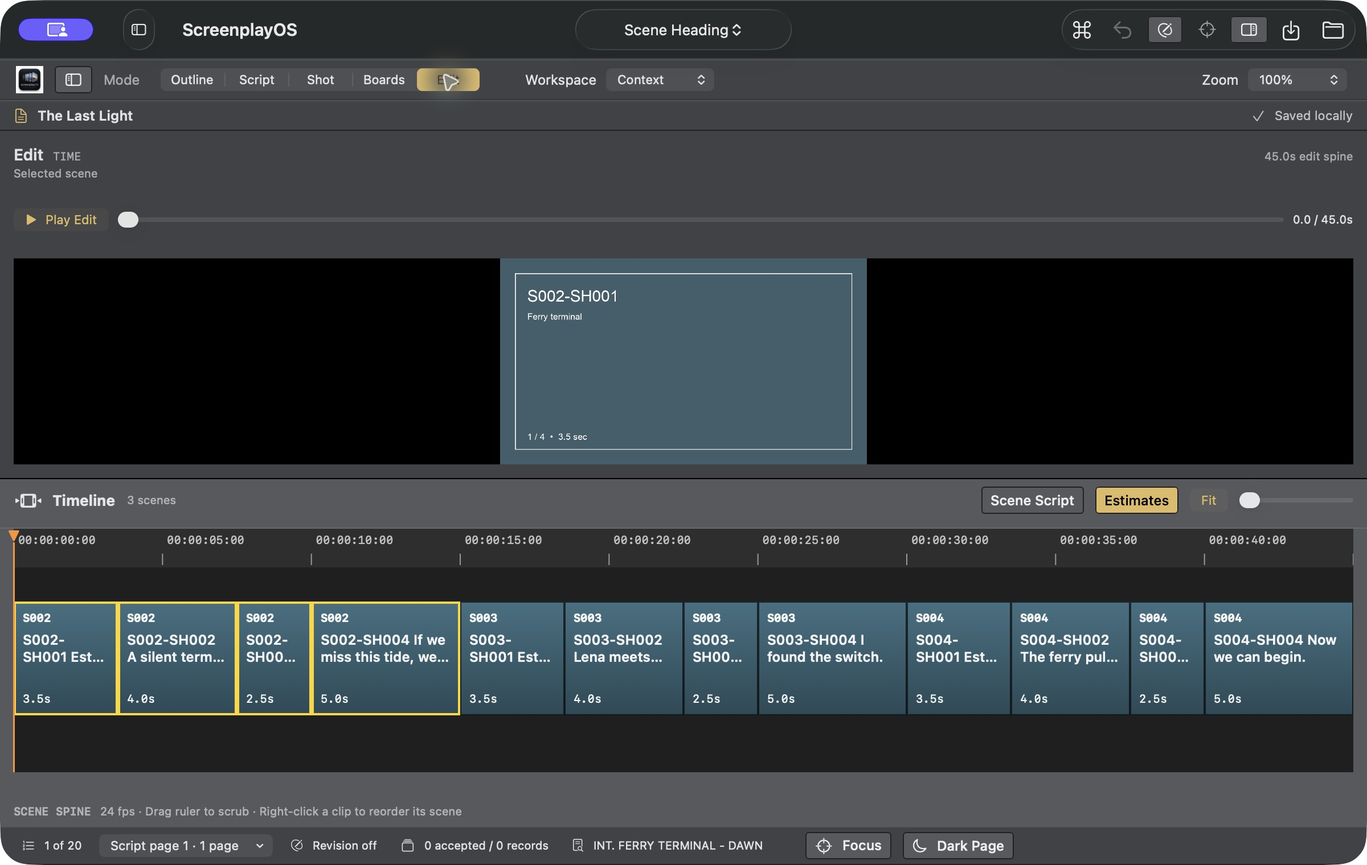
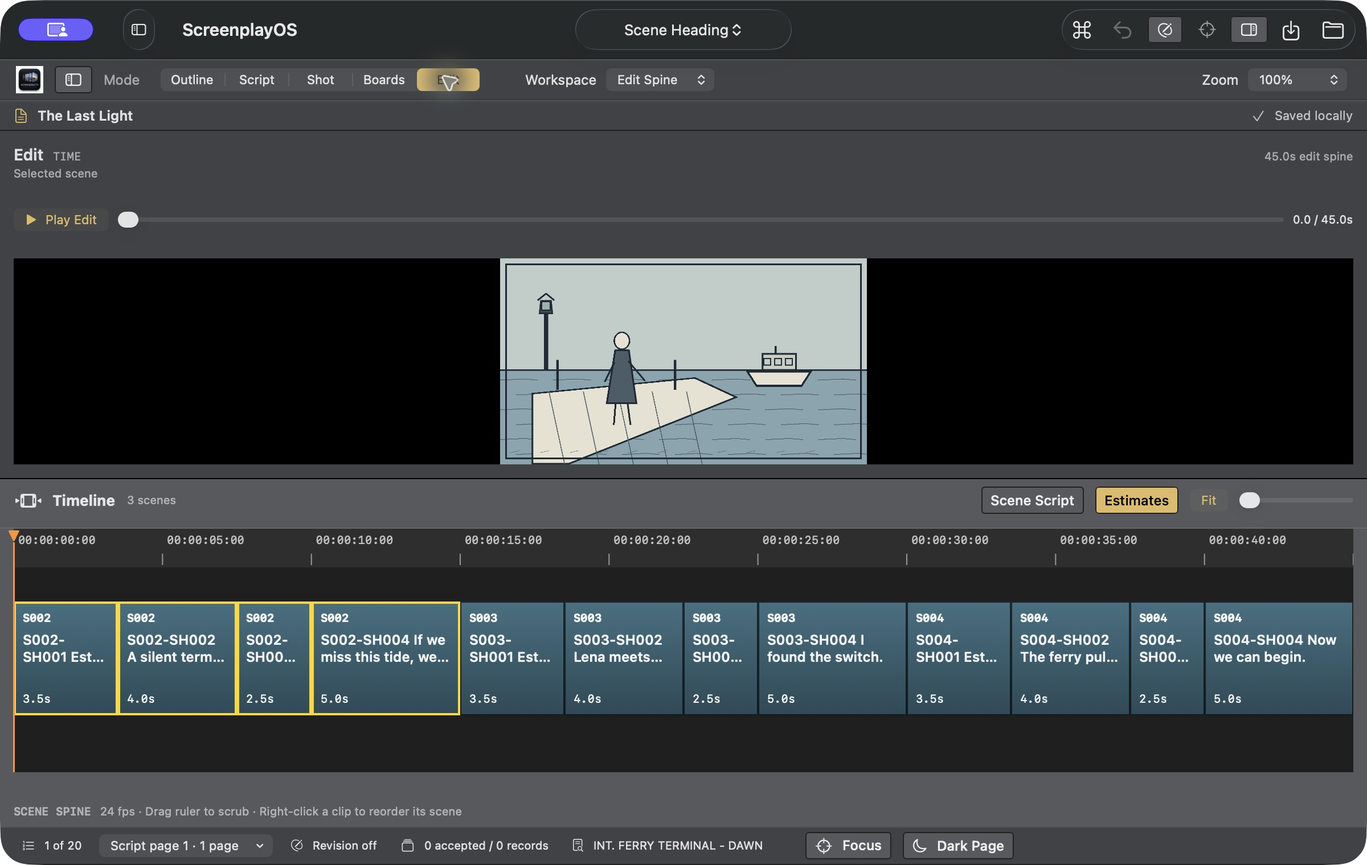
Revise beta website with original illustrated edit demo

Changed region(s): [[0.3438, 0.2783, 0.6562, 0.5566], [0.4688, 0.0618, 0.5, 0.0928]]

diff --git a/Website/index.html b/Website/index.html
@@ -6,22 +6,23 @@
   <meta name="theme-color" content="#f5f6f5">
   <meta name="description" content="A native Mac workspace that takes a story from outline to script, shots, boards, and a timed animatic, with the edit in mind at every stage.">
   <title>ScreenplayOS — Every stage planned for the cut</title>
-  <link rel="icon" type="image/png" href="assets/ScreenplayOSLogo.png">
+  <link rel="icon" type="image/png" sizes="32x32" href="assets/brand/favicon-32.png">
+  <link rel="apple-touch-icon" sizes="180x180" href="assets/brand/apple-touch-icon.png">
   <link rel="stylesheet" href="style.css">
   <script src="site.js" defer></script>
 </head>
 <body>
   <a class="skip" href="#main">Skip to content</a>
   <header class="site-header wrap" id="top">
-    <a class="brand" href="#top" aria-label="ScreenplayOS home"><img src="assets/ScreenplayOSLogo.png" alt="" width="44" height="44"><span>ScreenplayOS</span></a>
+    <a class="brand" href="#top" aria-label="ScreenplayOS home"><img src="assets/brand/header-88.png" alt="" width="44" height="44"><span>ScreenplayOS</span></a>
     <nav aria-label="Main navigation"><a href="#workflow">Product</a><a href="#early-access">Early access</a><a href="#install">Install</a><a href="#privacy">Privacy</a></nav>
   </header>
   <main id="main">
     <section class="hero wrap" aria-labelledby="hero-title">
       <div class="hero-copy">
         <p class="eyebrow">NATIVE FILMMAKING WORKSPACE FOR MAC · EARLY ACCESS BETA</p>
-        <h1 id="hero-title"><span class="hero-name">ScreenplayOS<sup>™</sup></span><br>From first beat<br>to first cut.</h1>
-        <p class="lead">ScreenplayOS keeps the edit in mind from the very first beat. Outline, write, break down shots, board, and play a timed animatic in one connected project, then export timing guides for the tools your team already uses.</p>
+        <h1 id="hero-title">From first beat<br>to first cut.</h1>
+        <p class="lead">Outline, write, break down shots, board, and play a timed animatic in one project—with optional AI dialogue suggestions and board image generation using your own provider key, only when you ask and after you preview what will be sent.</p>
         <form class="signup-form hero-signup" action="https://signup.screenplayos.com/subscribe" method="post" aria-label="Get the ScreenplayOS download by email">
           <label for="hero-email">Email address</label>
           <div class="signup-row"><input id="hero-email" name="email" type="email" autocomplete="email" inputmode="email" placeholder="you@example.com" required maxlength="254"><button class="button" type="submit">Get the beta for Mac <span aria-hidden="true">↗</span></button></div>
@@ -29,9 +30,9 @@
           <p class="fine-print">Confirm your email to open the download and receive occasional ScreenplayOS updates. Unsubscribe anytime.</p><p class="beta-caution">Early access beta. Back up important work before you start.</p>
           <p class="form-status" role="status" aria-live="polite"></p>
         </form>
-        <p class="small-line">Free to write. Works offline. No account required.</p>
+        <p class="small-line">Works offline. No account required.</p>
       </div>
-      <div class="hero-art"><picture><source srcset="assets/screenshots/outline-script.webp" type="image/webp"><img src="assets/screenshots/outline-script.png" alt="ScreenplayOS Outline view showing an original three-scene demo, estimated scene time, and its linked screenplay preview" width="2400" height="1520" fetchpriority="high"></picture></div>
+      <div class="hero-art"><picture><source srcset="assets/screenshots/edit.webp" type="image/webp"><img src="assets/screenshots/edit.png" alt="ScreenplayOS Edit view showing an original illustrated board above a 45-second timeline of twelve timed shots across three scenes" width="2400" height="1520" fetchpriority="high"></picture></div>
     </section>
     <section class="problem wrap" aria-labelledby="problem-title"><p class="eyebrow">THE GAP</p><h2 id="problem-title">Most tools stop at the script.</h2><p>Writing apps end at a PDF. Boards live in another app, timing lives in a spreadsheet, and the editor starts from scratch. When AI can generate a shot in minutes, the bottleneck isn't making images. It's keeping story, timing, and intent connected all the way to the cut.</p></section>
     <!-- Walkthrough is hidden until the video is ready.
@@ -39,15 +40,15 @@
     -->
     <section class="workflow wrap" id="workflow" aria-labelledby="workflow-title"><p class="eyebrow">ONE PROJECT · FIVE VIEWS</p><h2 id="workflow-title">One project. Every stage connected.</h2><div class="pipeline" aria-label="Outline to Edit workflow"><div><span>01</span><strong>Outline</strong><p>Shape the story in beats and see estimated runtime as you plan.</p></div><div><span>02</span><strong>Script</strong><p>Write in screenplay format; review each scene’s estimated screen time in Outline.</p></div><div><span>03</span><strong>Shot</strong><p>Break scenes into shots linked to their source script elements.</p></div><div><span>04</span><strong>Boards</strong><p>Build board frames from linked shots and set their durations.</p></div><div><span>05</span><strong>Edit</strong><p>Play timed boards. Export a timed sequence that opens in Premiere Pro or Final Cut Pro, ready for real footage and sound.</p></div></div><p class="pipeline-note">Scene identity carries through every view. The export contains timing placeholders, not media.</p>
       <div class="view-gallery" aria-label="ScreenplayOS beta screenshots">
-        <figure><picture><source srcset="assets/screenshots/boards.webp" type="image/webp"><img src="assets/screenshots/boards.png" alt="Boards view linking locally made placeholder images to shots, each with an authored duration" width="2400" height="1520" loading="lazy"></picture><figcaption><strong>Boards</strong><span>Shots become a timed visual sequence.</span></figcaption></figure>
-        <figure><picture><source srcset="assets/screenshots/edit.webp" type="image/webp"><img src="assets/screenshots/edit.png" alt="Edit view showing a 45-second timeline of twelve timed shots across three scenes" width="2400" height="1520" loading="lazy"></picture><figcaption><strong>Edit</strong><span>Review the rhythm before the footage arrives.</span></figcaption></figure>
+        <figure><picture><source srcset="assets/screenshots/outline-script.webp" type="image/webp"><img src="assets/screenshots/outline-script.png" alt="ScreenplayOS Outline view showing an original three-scene demo, estimated scene time, and its linked screenplay preview" width="2400" height="1520" loading="lazy"></picture><figcaption><strong>Outline and Script</strong><span>Plan scenes beside the screenplay.</span></figcaption></figure>
+        <figure><picture><source srcset="assets/screenshots/boards.webp" type="image/webp"><img src="assets/screenshots/boards.png" alt="Boards view showing original illustrated frames linked to shots with authored durations" width="2400" height="1520" loading="lazy"></picture><figcaption><strong>Boards</strong><span>Use original drawn frames, or ask OpenAI to generate a board image with your Keychain-stored key after reviewing the editable prompt.</span></figcaption></figure>
       </div>
     </section>
     <section class="difference wrap" aria-labelledby="difference-title"><p class="eyebrow">WHY IT'S DIFFERENT</p><h2 id="difference-title">Plan with the cut in mind.</h2><div class="cards"><article><span class="number">01</span><h3>Planned for the cut</h3><p>Scene time estimates and authored board durations help you judge rhythm before you shoot or generate a frame.</p></article><article><span class="number">02</span><h3>Hands off, doesn't lock in</h3><p>ScreenplayOS prepares timing guides for other tools. The current exports contain placeholders, so footage and sound remain in your editor.</p></article><article><span class="number">03</span><h3>Your work stays yours</h3><p>Projects live on your Mac. Writing, outlining, and supported exports need no account or internet. AI is optional, invoked by you, with your provider key in the macOS Keychain. When you use AI, you choose the service and see exactly what is sent before anything leaves your Mac.</p></article></div></section>
     <section class="for-whom"><div class="wrap narrow"><p class="eyebrow">WHO IT'S FOR</p><h2>Built for the new production team.</h2><p>For writers, directors, and producers making film, series, and animation, especially small teams working with AI-assisted pipelines, where one person may write the scene, plan the coverage, and cut the sequence.</p></div></section>
-    <section class="coming wrap" aria-labelledby="coming-title"><p class="eyebrow">COMING NEXT</p><h2 id="coming-title">What we're building next</h2><ul><li>Continuity bible: characters, locations and style carried into every generation, so faces and places hold across shots</li><li>Generation into shots: images, video and temp voice made with the AI services you choose, landing directly in each shot's timeline slot</li><li>Consent built in: likeness and voice generation for real performers requires a recorded consent</li><li>Temp voice, music, and effects lanes in the animatic</li><li>Takes for generated or filmed clips within each shot</li><li>Handoff to DaVinci Resolve, Premiere Pro, and Final Cut Pro, with edits returning as reviewable changes</li></ul><p>Early access members help decide what ships first.</p></section>
-    <section class="early-access" id="early-access" aria-labelledby="early-title"><div class="wrap signup-grid"><div><p class="eyebrow">EARLY ACCESS</p><h2 id="early-title">Get ScreenplayOS by email.</h2><p>Enter your email and confirm it to open the current Mac download. You'll also receive occasional product notes and, when available, founding-member pricing.</p><p class="muted">Running a production and want to use it on real work? Write to <a href="mailto:hello@screenplayos.com">hello@screenplayos.com</a> about becoming a design partner.</p></div><form class="signup-form signup-panel" action="https://signup.screenplayos.com/subscribe" method="post" aria-label="Get ScreenplayOS by email"><label for="email">Email address <span aria-hidden="true">*</span></label><input id="email" name="email" type="email" autocomplete="email" inputmode="email" placeholder="you@example.com" required maxlength="254"><input class="honeypot" name="website" type="text" tabindex="-1" autocomplete="off" aria-hidden="true"><button class="button" type="submit">Get the beta for Mac <span aria-hidden="true">↗</span></button><p class="fine-print">Confirm your email to open the download and receive occasional ScreenplayOS updates. No marketing tracking. Unsubscribe anytime.</p><p class="beta-caution">Early access beta. Back up important work before you start.</p><p class="form-status" role="status" aria-live="polite"></p></form></div></section>
-    <section class="install" id="install"><div class="wrap install-grid"><div><p class="eyebrow">GET STARTED</p><h2>Install in a minute.</h2><p class="muted">Confirm your email address to open the current signed and Apple-notarized Mac build.</p><p class="release-line" id="release-details" data-site-release="details">Version 0.1.4 (27) · October 2026 · Universal (Apple Silicon and Intel) · macOS 13 or later</p><div class="checksum-block"><p>Verify the downloaded DMG with <code>shasum -a 256 ScreenplayOS-0.1.4.dmg</code>.</p><div class="checksum-row"><code id="dmg-checksum" data-site-release="checksum">9eaf5b2b40f1df15918963287dc773513411afc8187e63f4d3bc4006c03f2e41</code><button type="button" id="copy-checksum" aria-label="Copy DMG SHA-256 checksum">Copy checksum</button></div><p id="checksum-status" role="status" aria-live="polite"></p></div></div><ol><li>Open the confirmation email. Its confirmation button starts the <strong>ScreenplayOS DMG</strong> download.</li><li>Drag <strong>ScreenplayOS.app</strong> to <strong>Applications</strong>.</li><li>Eject the disk image, then open ScreenplayOS from Applications.</li></ol></div></section>
+    <section class="coming wrap" aria-labelledby="coming-title"><p class="eyebrow">COMING NEXT</p><h2 id="coming-title">What we're building next</h2><ul><li>Continuity bible: characters, locations and style carried into every generation, so faces and places hold across shots</li><li>Generation into shots: images, video and temp voice made with the AI services you choose, landing directly in each shot's timeline slot</li><li>Consent built in: likeness and voice generation for real performers requires a recorded consent</li><li>Temp voice, music, and effects lanes in the animatic</li><li>Takes for generated or filmed clips within each shot</li><li>Handoff to DaVinci Resolve, Premiere Pro, and Final Cut Pro with media and audio, and edits returning as reviewable changes</li></ul><p>Early access members help decide what ships first.</p></section>
+    <section class="early-access" id="early-access" aria-labelledby="early-title"><div class="wrap signup-grid"><div><p class="eyebrow">EARLY ACCESS</p><h2 id="early-title">Try the beta on your next sequence.</h2><p>Enter your email and confirm it to open the current Mac download. You'll also receive occasional product notes and, when available, founding-member pricing.</p><p class="muted">Running a production and want to use it on real work? Write to <a href="mailto:hello@screenplayos.com">hello@screenplayos.com</a> about becoming a design partner.</p></div><form class="signup-form signup-panel" action="https://signup.screenplayos.com/subscribe" method="post" aria-label="Get ScreenplayOS by email"><label for="email">Email address <span aria-hidden="true">*</span></label><input id="email" name="email" type="email" autocomplete="email" inputmode="email" placeholder="you@example.com" required maxlength="254"><input class="honeypot" name="website" type="text" tabindex="-1" autocomplete="off" aria-hidden="true"><button class="button" type="submit">Get the beta for Mac <span aria-hidden="true">↗</span></button><p class="fine-print">Confirm your email to open the download and receive occasional ScreenplayOS updates. No marketing tracking. Unsubscribe anytime.</p><p class="beta-caution">Early access beta. Back up important work before you start.</p><p class="form-status" role="status" aria-live="polite"></p></form></div></section>
+    <section class="install" id="install"><div class="wrap install-grid"><div><p class="eyebrow">GET STARTED</p><h2>Install in a minute.</h2><p class="muted">Confirm your email address to open the current signed and Apple-notarized Mac build.</p><p class="release-line" id="release-details" data-site-release="details">Version 0.1.4 (27) · October 2026 · Universal (Apple Silicon and Intel) · macOS 13 or later</p></div><div><ol><li>Open the confirmation email. Its confirmation button starts the <strong>ScreenplayOS DMG</strong> download.</li><li>Drag <strong>ScreenplayOS.app</strong> to <strong>Applications</strong>.</li><li>Eject the disk image, then open ScreenplayOS from Applications.</li></ol><details class="checksum-block"><summary>Verify the download</summary><p>Run <code>shasum -a 256 ScreenplayOS-0.1.4.dmg</code> and compare the result:</p><div class="checksum-row"><code id="dmg-checksum" data-site-release="checksum">9eaf5b2b40f1df15918963287dc773513411afc8187e63f4d3bc4006c03f2e41</code><button type="button" id="copy-checksum" aria-label="Copy DMG SHA-256 checksum">Copy checksum</button></div><p id="checksum-status" role="status" aria-live="polite"></p></details></div></div></section>
     <section class="lower wrap"><div><p class="eyebrow">COMPATIBILITY</p><h2>Built for Mac.</h2><p>Universal for Apple Silicon and Intel Macs, requiring macOS 13 or later.</p><p>Screenplay export includes PDF and Final Draft (.fdx).</p></div><div id="privacy"><p class="eyebrow">PRIVACY</p><h2>Your drafts stay yours.</h2><p>Your screenplays are stored on your Mac. Content reaches an AI provider only when you choose an AI feature and is processed under that provider's terms. Provider keys stay in the macOS Keychain.</p><p>This site uses no analytics or third-party trackers. If you join the email list, we send your email address and IP address to Buttondown to deliver the confirmation, prevent spam, and send occasional ScreenplayOS updates. Open and click tracking are off; Buttondown may process operational data under its privacy policy. You can unsubscribe at any time. Hosting providers may retain standard server logs.</p></div></section>
   </main>
   <footer class="footer"><div class="wrap footer-inner"><span>© <span id="year">2026</span> ScreenplayOS<sup>™</sup></span><div><a href="#workflow">Product</a><a href="#early-access">Early access</a><a href="#privacy">Privacy</a><a href="mailto:hello@screenplayos.com">Contact</a></div></div></footer>

diff --git a/Website/style.css b/Website/style.css
@@ -4,6 +4,6 @@ button,input,select{font:inherit}button{cursor:pointer}button:focus-visible,inpu
 @media(max-width:950px){.pipeline{grid-template-columns:repeat(2,minmax(0,1fr))}.pipeline div{border-bottom:1px solid var(--line)}.pipeline div+div{border-left:0;padding-left:0}.pipeline div:nth-child(even){border-left:1px solid var(--line);padding-left:19px}.cards,.coming ul{grid-template-columns:1fr}.walkthrough-grid,.signup-grid{gap:35px}}
 @media(max-width:760px){.site-header nav{width:100%;justify-content:space-between;gap:10px}.site-header nav a{font-size:12px}.hero{flex-direction:column-reverse}.hero-art{max-width:180px}.signup-row{flex-direction:column}.signup-row .button{justify-content:center}.walkthrough-grid,.signup-grid{grid-template-columns:1fr}.pipeline{grid-template-columns:1fr}.pipeline div,.pipeline div+div,.pipeline div:nth-child(even){border-left:0;padding:20px 0;border-bottom:1px solid var(--line)}.pipeline div:last-child{border-bottom:0}.problem,.workflow,.coming,.early-access{padding-block:60px}.walkthrough,.for-whom{padding-block:60px}.difference{padding-bottom:60px}.cards{gap:12px}.cards article{padding:20px}.video-placeholder{min-height:180px}.signup-panel{padding:20px}.coming ul{gap:16px}.coming li{padding-top:12px}}
 /* Beta release details and discreet trademark. */
-.hero-name{display:inline-block;font-size:.29em;font-weight:750;letter-spacing:-.035em;line-height:1.8;vertical-align:top}.hero-name sup,.footer sup{font-size:.5em;line-height:0;vertical-align:super}.beta-caution{font-size:13px;font-weight:650;color:#35414c;margin:10px 0 0}.release-line{display:block;line-height:1.6}.checksum-block{margin-top:16px;font-size:13px;color:var(--muted)}.checksum-block p{margin-bottom:8px}.checksum-block code{font-family:ui-monospace,SFMono-Regular,Menlo,monospace;overflow-wrap:anywhere}.checksum-row{display:flex;align-items:center;gap:12px;flex-wrap:wrap}.checksum-row code{font-size:12px;color:var(--ink)}.checksum-row button{border:1px solid var(--line);background:var(--white);color:var(--deep);padding:7px 10px;font-size:12px;font-weight:700}.checksum-row button:hover{background:#dbe6ed}#checksum-status{min-height:1em;margin-top:6px}
+.footer sup{font-size:.5em;line-height:0;vertical-align:super}.beta-caution{font-size:13px;font-weight:650;color:#35414c;margin:10px 0 0}.release-line{display:block;line-height:1.6}.checksum-block{display:block;margin-top:24px;border-top:1px solid var(--line);padding-top:15px;font-size:13px;color:var(--muted)}.checksum-block summary{cursor:pointer;color:var(--deep);font-weight:700;font-size:14px}.checksum-block summary:focus-visible{outline:3px solid #176ca7;outline-offset:3px}.checksum-block p{margin:12px 0 8px}.checksum-block code{font-family:ui-monospace,SFMono-Regular,Menlo,monospace;overflow-wrap:anywhere}.checksum-row{display:flex;align-items:center;gap:12px;flex-wrap:wrap}.checksum-row code{font-size:12px;color:var(--ink)}.checksum-row button{border:1px solid var(--line);background:var(--white);color:var(--deep);padding:7px 10px;font-size:12px;font-weight:700}.checksum-row button:hover{background:#dbe6ed}#checksum-status{min-height:1em;margin-top:6px}
 /* Captures are from the signed 0.1.4 build using a disposable local screenplay. */
 .hero{grid-template-columns:1fr;gap:34px;min-height:0}.hero-copy{max-width:790px}.hero-art{max-width:none;justify-self:stretch;border:1px solid var(--line);background:var(--deep);box-shadow:0 20px 45px rgba(23,35,48,.1)}.hero-art picture,.view-gallery picture{display:block}.hero-art img,.view-gallery img{display:block;width:100%;height:auto}.view-gallery{display:grid;grid-template-columns:repeat(2,minmax(0,1fr));gap:20px;margin-top:42px}.view-gallery figure{min-width:0;margin:0;border:1px solid var(--line);background:var(--white)}.view-gallery figcaption{display:flex;gap:8px;flex-wrap:wrap;align-items:baseline;padding:14px 18px;color:var(--muted);font-size:14px}.view-gallery figcaption strong{color:var(--ink);font-size:16px}@media(max-width:760px){.hero{display:flex;flex-direction:column;gap:28px}.hero-art{max-width:none}.view-gallery{grid-template-columns:1fr;gap:16px;margin-top:30px}}

diff --git a/Website/tools/draw-demo-boards.py b/Website/tools/draw-demo-boards.py
@@ -1,0 +1,134 @@
+#!/usr/bin/env python3
+"""Draw the original, locally authored frames for The Last Light demo.
+
+Requires Pillow only for regenerating the committed PNGs. No network or AI API.
+"""
+from pathlib import Path
+from PIL import Image, ImageDraw
+import math
+
+OUT = Path(__file__).resolve().parents[1] / "assets" / "demo-boards"
+OUT.mkdir(parents=True, exist_ok=True)
+W, H = 1280, 720
+INK = (29, 42, 53)
+MID = (74, 92, 104)
+PAPER = (231, 226, 209)
+SEA = (132, 165, 174)
+SKY = (192, 204, 200)
+WARM = (216, 170, 92)
+
+
+def line(d, points, width=6, color=INK):
+    d.line(points, fill=color, width=width, joint="curve")
+
+
+def star(d, x, y, r=37):
+    points = []
+    for i in range(10):
+        a = -math.pi / 2 + i * math.pi / 5
+        rr = r if i % 2 == 0 else r * .43
+        points.append((x + rr * math.cos(a), y + rr * math.sin(a)))
+    d.polygon(points, fill=PAPER, outline=INK, width=5)
+    line(d, [(x, y-r), (x, y+r*.37)], 3, MID)
+
+
+def water(d, horizon=390):
+    d.rectangle((0, 0, W, horizon), fill=SKY)
+    d.rectangle((0, horizon, W, H), fill=SEA)
+    line(d, [(0, horizon), (W, horizon)], 5)
+    for yy in range(horizon+35, H, 52):
+        for xx in range((yy//52)%2*55, W, 185):
+            line(d, [(xx, yy), (xx+85, yy-4), (xx+131, yy)], 3, MID)
+
+
+def pier(d, x=110, y=470):
+    d.polygon([(x, y), (x+570, y-55), (x+720, y+15), (x+130, H), (x, H)], fill=PAPER, outline=INK, width=6)
+    for xx in range(x+60, x+600, 120):
+        line(d, [(xx, y-5), (xx+55, H)], 3, MID)
+    for xx in (x+90, x+500):
+        line(d, [(xx, y-12), (xx, y-115)], 9)
+
+
+def lamp(d, x=850, y=155, lit=False, scale=1):
+    s=scale
+    if lit:
+        d.ellipse((x-100*s,y-90*s,x+100*s,y+90*s), fill=(235,210,141))
+    d.polygon([(x-37*s,y+22*s),(x-47*s,y+115*s),(x+47*s,y+115*s),(x+37*s,y+22*s)], fill=(58,76,82), outline=INK, width=5)
+    d.rectangle((x-31*s,y+27*s,x+31*s,y+92*s), fill=(239,205,129) if lit else (151,177,174), outline=INK, width=4)
+    line(d, [(x-55*s,y+22*s),(x,y-23*s),(x+55*s,y+22*s)], 6)
+    line(d, [(x,y+115*s),(x,y+490*s)], 15)
+    if lit:
+        for dx in (-130,-75,75,130): line(d,[(x+dx*s,y-50*s),(x+dx*1.3*s,y-90*s)],3,WARM)
+
+
+def ferry(d, x=670, y=355, scale=1):
+    s=scale
+    d.polygon([(x-250*s,y),(x+265*s,y),(x+185*s,y+125*s),(x-170*s,y+125*s)], fill=PAPER, outline=INK, width=7)
+    d.rectangle((x-125*s,y-135*s,x+145*s,y), fill=(203,206,193), outline=INK, width=6)
+    for xx in (-85,0,85): d.rectangle((x+(xx-30)*s,y-97*s,x+(xx+30)*s,y-38*s), fill=SKY, outline=INK, width=4)
+    line(d,[(x-20*s,y-135*s),(x-20*s,y-190*s)],7)
+
+
+def person(d, x, y, scale=1, facing=1, coat=(75, 92, 104)):
+    s=scale
+    d.ellipse((x-27*s,y-95*s,x+27*s,y-35*s), fill=PAPER, outline=INK, width=5)
+    d.polygon([(x-24*s,y-36*s),(x+25*s,y-36*s),(x+51*s,y+145*s),(x-53*s,y+145*s)],fill=coat,outline=INK,width=6)
+    line(d,[(x-21*s,y+144*s),(x-27*s,y+215*s)],6)
+    line(d,[(x+19*s,y+144*s),(x+28*s,y+215*s)],6)
+    line(d,[(x+21*s,y+2*s),(x+facing*77*s,y+68*s)],6)
+    line(d,[(x-25*s,y+7*s),(x-facing*58*s,y+72*s)],6)
+    line(d,[(x+facing*25*s,y-60*s),(x+facing*28*s,y-60*s)],3)
+
+
+def key(d,x,y,s=1):
+    d.ellipse((x-25*s,y-25*s,x+25*s,y+25*s),outline=WARM,width=max(3,int(10*s)))
+    line(d,[(x+24*s,y),(x+105*s,y)],max(3,int(11*s)),WARM)
+    line(d,[(x+87*s,y),(x+87*s,y+25*s),(x+104*s,y+25*s)],max(3,int(8*s)),WARM)
+
+
+def room(d):
+    d.rectangle((0,0,W,H),fill=(185,196,191))
+    d.polygon([(0,0),(285,120),(285,H),(0,H)],fill=(95,112,117))
+    d.polygon([(W,0),(1000,110),(1000,H),(W,H)],fill=(95,112,117))
+    d.rectangle((330,70,950,535),fill=INK)
+    d.rectangle((346,86,934,519),fill=SKY)
+    d.rectangle((346,340,934,519),fill=SEA)
+    line(d,[(640,80),(640,522)],8)
+    line(d,[(338,350),(941,350)],6)
+    d.rectangle((0,620,W,H),fill=(89,103,103))
+
+
+def draw(i):
+    im=Image.new('RGB',(W,H),PAPER); d=ImageDraw.Draw(im)
+    if i<=4:
+        room(d)
+        if i==1: person(d,790,435,1.1,-1); star(d,880,540,28); lamp(d,500,243,True,.29)
+        elif i==2: ferry(d,650,388,.32); lamp(d,780,290,True,.28); person(d,260,440,1.35,1)
+        elif i==3: person(d,625,365,1.9,-1); star(d,870,525,35)
+        else: person(d,430,405,1.35,1); person(d,800,405,1.35,-1,coat=(111,100,89)); star(d,610,515,32)
+    elif i<=8:
+        water(d)
+        pier(d)
+        if i==5: ferry(d,970,392,.45); lamp(d,160,135,False,.52); person(d,425,356,1.05,1)
+        elif i==6: person(d,440,320,1.55,1); star(d,625,402,49); ferry(d,1050,390,.28)
+        elif i==7: person(d,520,310,1.85,1); star(d,680,415,36)
+        else: person(d,400,327,1.45,1); ferry(d,940,365,.53); lamp(d,110,170,False,.45)
+    else:
+        water(d,415)
+        d.polygon([(0,640),(W,510),(W,H),(0,H)],fill=(196,190,169),outline=INK,width=6)
+        lamp(d,890,180, i==12, .75)
+        if i==9: person(d,350,330,1.2,1); person(d,615,340,1.1,-1,coat=(111,100,89))
+        elif i==10: person(d,335,340,1.35,1); person(d,650,340,1.35,-1,coat=(111,100,89)); key(d,600,365,.75)
+        elif i==11: person(d,540,310,1.8,-1,coat=(111,100,89)); key(d,650,360,1)
+        else: person(d,380,340,1.3,1); person(d,670,340,1.3,-1,coat=(111,100,89)); key(d,770,435,.6)
+    # Pencil-like frame and a few short hatching lines, all authored geometry.
+    d.rectangle((18,18,W-19,H-19),outline=INK,width=6)
+    for j in range(11):
+        xx=36+j*103
+        line(d,[(xx,H-42),(xx+32,H-49)],2,MID)
+    im.save(OUT/f'{i:02d}.png',optimize=True)
+
+
+if __name__=='__main__':
+    for i in range(1,13): draw(i)
+    print(f'Drew 12 original frames in {OUT}')

diff --git a/Website/tools/export-brand.py b/Website/tools/export-brand.py
@@ -1,0 +1,32 @@
+#!/usr/bin/env python3
+"""Regenerate the three public brand sizes from one source image.
+
+Run `python3 Website/tools/export-brand.py --source path/to/new-mark.svg` to
+replace the mark later; HTML and build paths do not change. PNG needs Pillow;
+SVG input also needs CairoSVG for this one-time asset export.
+"""
+import argparse
+import io
+from pathlib import Path
+from PIL import Image
+
+ROOT = Path(__file__).resolve().parents[1]
+parser = argparse.ArgumentParser()
+parser.add_argument('--source', type=Path, default=ROOT/'assets'/'ScreenplayOSLogo.png')
+args = parser.parse_args()
+source = args.source.resolve()
+if source.suffix.lower() == '.svg':
+    import cairosvg
+    logo = Image.open(io.BytesIO(cairosvg.svg2png(url=str(source), output_width=360, output_height=360)))
+else:
+    logo = Image.open(source)
+logo = logo.convert('RGBA')
+out = ROOT/'assets'/'brand'
+out.mkdir(exist_ok=True)
+for name, size in [('favicon-32.png', 32), ('apple-touch-icon.png', 180), ('header-88.png', 88)]:
+    image = logo.resize((size, size), Image.Resampling.LANCZOS)
+    if size == 180:
+        image = image.convert('RGB').quantize(colors=96, method=Image.Quantize.FASTOCTREE)
+    image.save(out/name, optimize=True)
+    assert (out/name).stat().st_size < 30_000, name
+    print(name, (out/name).stat().st_size, 'bytes')

diff --git a/Website/build-public.py b/Website/build-public.py
@@ -19,7 +19,9 @@ if not destination.is_dir():
 for name in ('index.html', 'style.css', 'site.js'):
     shutil.copy2(HERE / name, destination / name)
 (destination / 'assets').mkdir(exist_ok=True)
-shutil.copy2(HERE / 'assets' / 'ScreenplayOSLogo.png', destination / 'assets' / 'ScreenplayOSLogo.png')
+shutil.copytree(HERE / 'assets' / 'brand', destination / 'assets' / 'brand', dirs_exist_ok=True)
+# Remove the old, full-size logo if an existing dist directory still has it.
+(destination / 'assets' / 'ScreenplayOSLogo.png').unlink(missing_ok=True)
 shutil.copytree(HERE / 'assets' / 'screenshots', destination / 'assets' / 'screenshots', dirs_exist_ok=True)
 release = json.loads((HERE / 'release.json').read_text())
 public = {key: release[key] for key in ('version', 'build', 'releaseDate')}

diff --git a/Docs/website-assets.md b/Docs/website-assets.md
@@ -1,0 +1,24 @@
+# Website asset provenance
+
+The site screenshots show the signed ScreenplayOS 0.1.4 (27) app with the disposable, original “The Last Light” demo screenplay. No owner screenplay appears. `Website/assets/screenshots/outline-script.*` was captured earlier from the same build. `boards.*` and `edit.*` were recaptured after replacing all demo board images with the drawings below. Each PNG is a 2400 × 1520 window capture at 2×; its WebP is an optimized derivative. Captures were made from the app window, without the desktop or user files.
+
+The twelve `Website/assets/demo-boards/NN.png` images are original local raster drawings made for this demonstration by `Website/tools/draw-demo-boards.py`. The drawing script uses Pillow shapes and lines; it does not fetch stock art, use a third-party image, or call any AI service. The demo project references copies of these files in a disposable `/private/tmp/screenplayos-demo-home` directory; no temporary project or user document is published. All frames are 1280 × 720.
+
+| File | Scene and shot | Duration |
+| --- | --- | ---: |
+| `01.png` | Ferry cabin, establishing | 3.5 s |
+| `02.png` | Ferry pulls away | 4 s |
+| `03.png` | Lena in the cabin | 2.5 s |
+| `04.png` | Lena and Ari begin | 5 s |
+| `05.png` | Ferry terminal, establishing | 3.5 s |
+| `06.png` | Lena and paper star | 4 s |
+| `07.png` | Lena at the terminal | 2.5 s |
+| `08.png` | Ferry arrives | 5 s |
+| `09.png` | Harbor walk, establishing | 3.5 s |
+| `10.png` | Ari raises the brass key | 4 s |
+| `11.png` | Ari and the key | 2.5 s |
+| `12.png` | Harbor signal lights | 5 s |
+
+The authored board durations total **45 seconds** across three scenes. The drawn PNGs are source material for the screenshots and are intentionally omitted from the public site build; only the optimized screenshot images ship with the site.
+
+The current 1.4 MB `Website/assets/ScreenplayOSLogo.png` is retained as the approved source. `Website/tools/export-brand.py` makes the 32 px favicon, 180 px Apple touch icon, and 88 px header PNG in `Website/assets/brand/`; each is under 30 KB. The public build copies only those derivatives. To use a new approved SVG later, run `python3 Website/tools/export-brand.py --source /path/to/new-mark.svg` (requires CairoSVG for SVG input). The HTML and public build paths need no changes.
